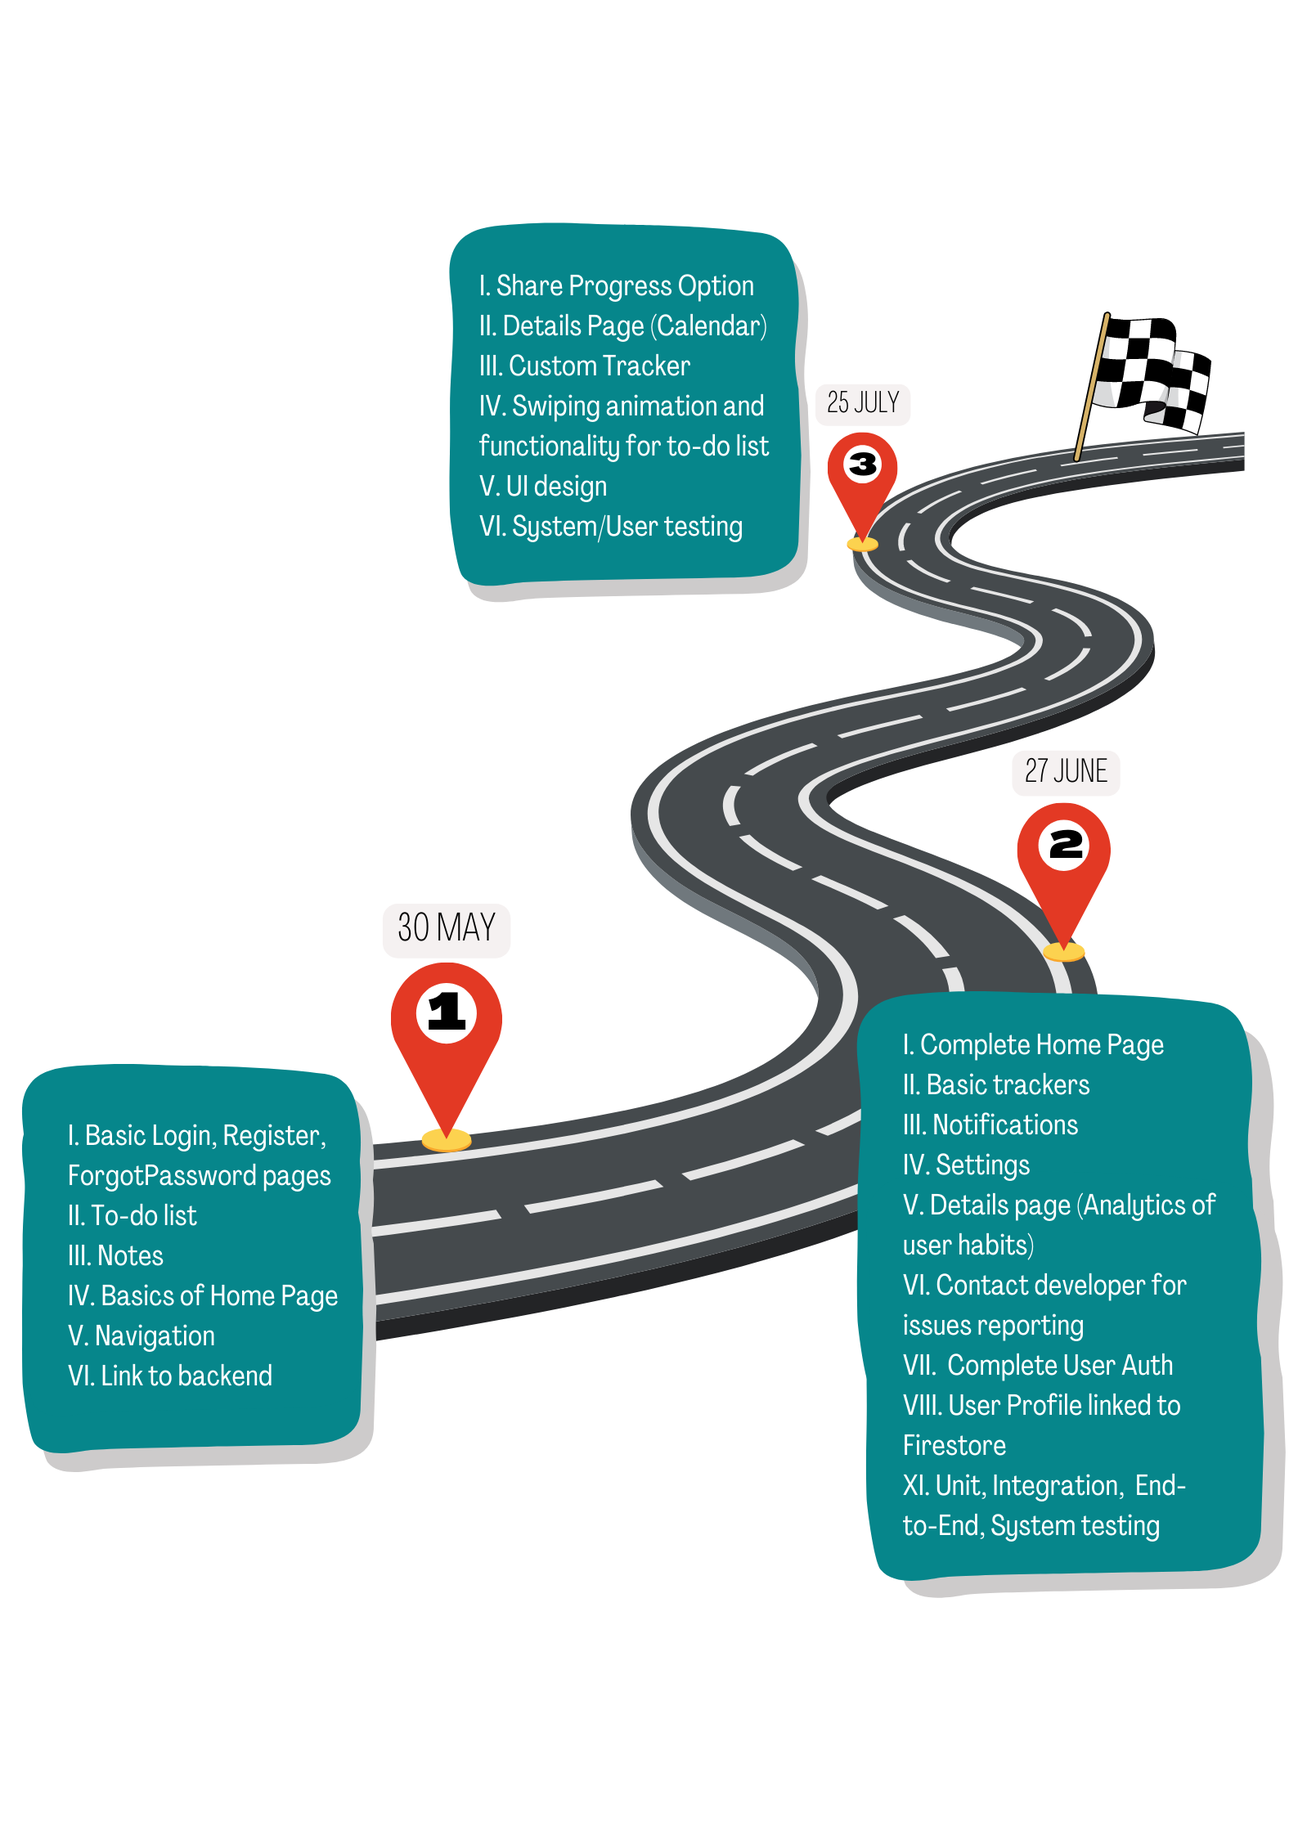
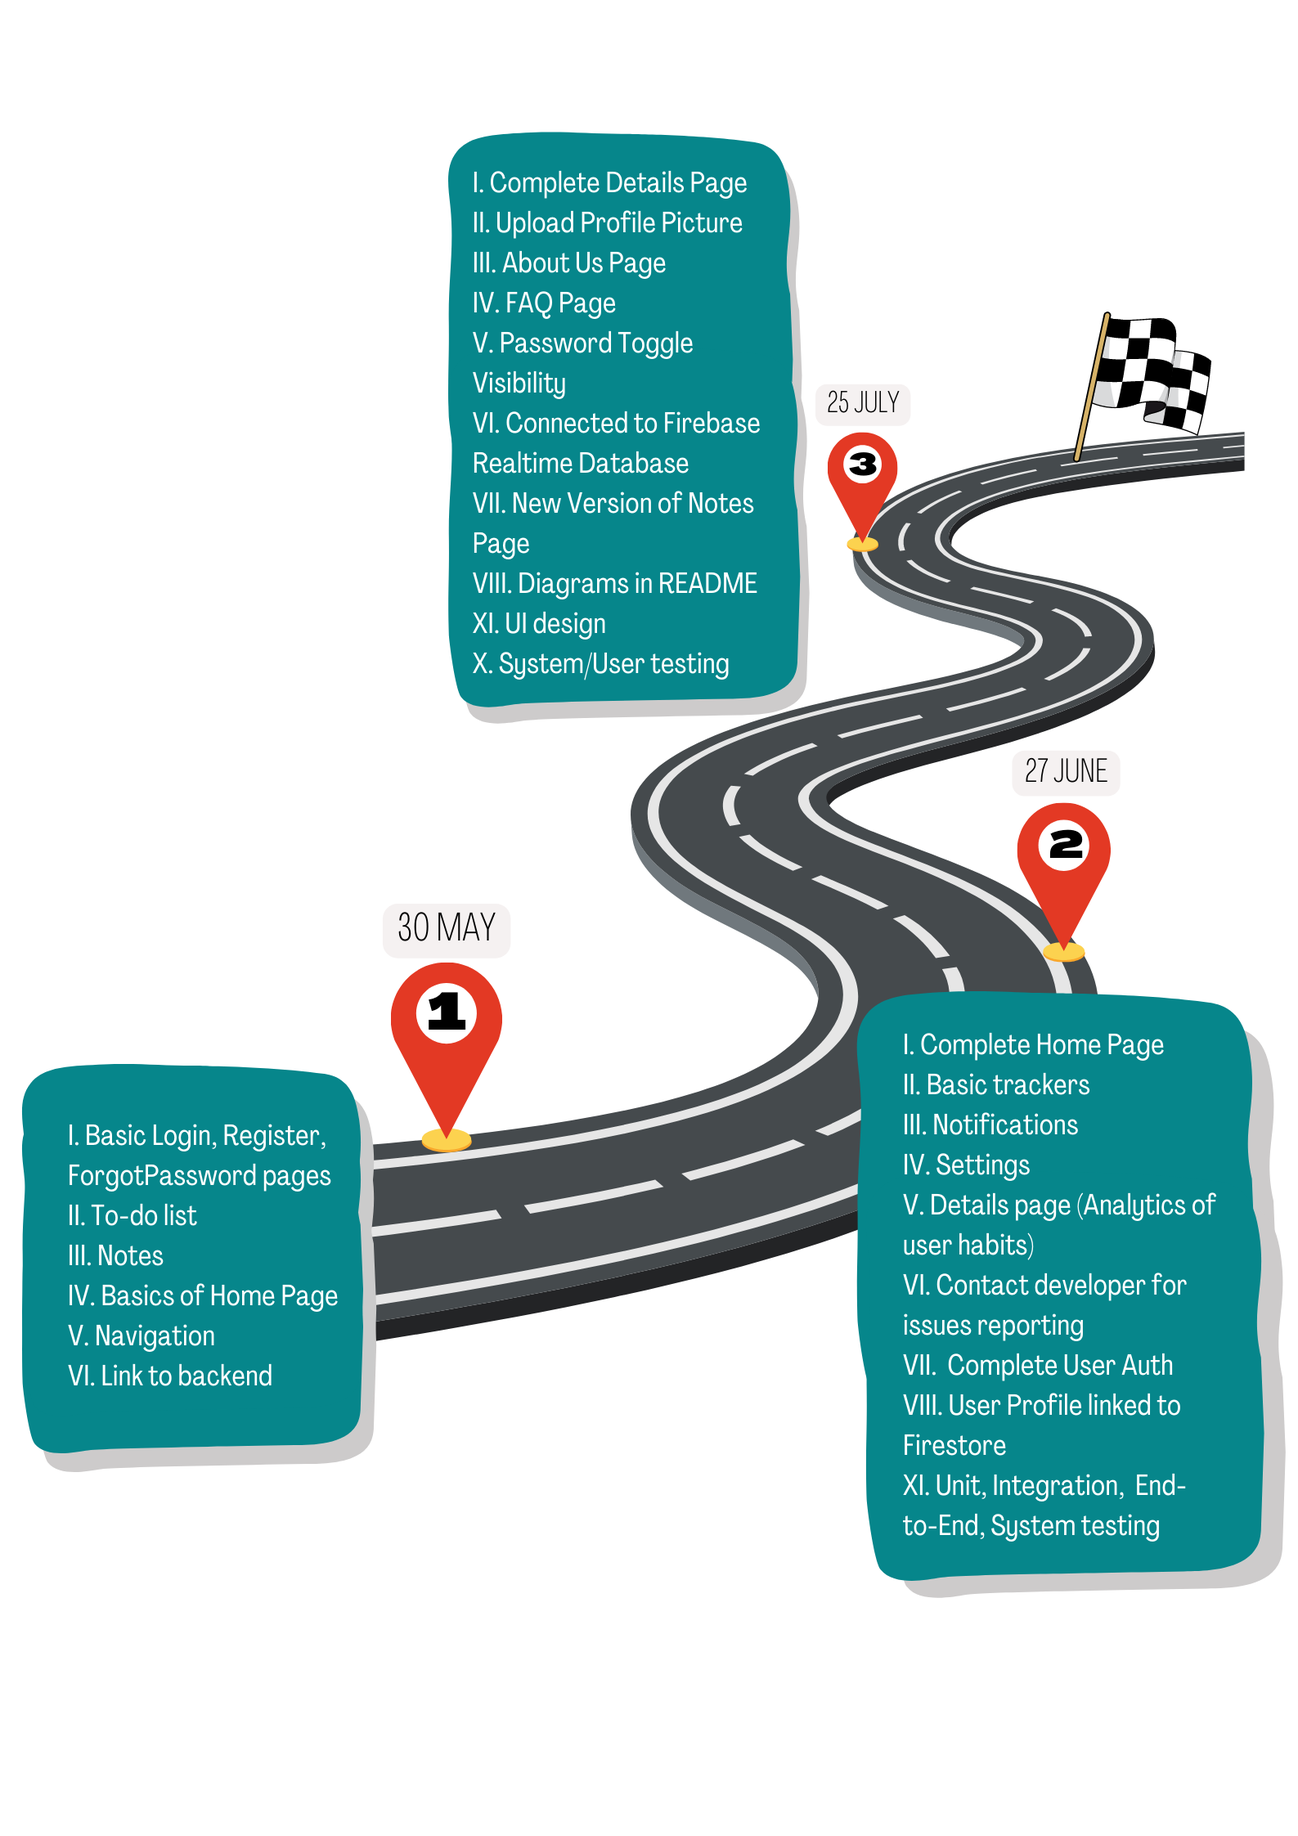
New README

Changed region(s): [[0.3396, 0.0624, 0.6484, 0.4053]]

diff --git a/README.md b/README.md
@@ -6,13 +6,20 @@
 
 **[Track My Day App Video 📺]()**  
 
-Proof of Concept: **[Track My Day APK file]()** - please download it using your mobile device, you can access the file via our google drive (on your phone) and download it. It will show up as a mobile application on your phone screen. Click the app and try out Track My Day. 
+Proof of Concept: **[Track My Day APK file]()** - please download it using your mobile device, you can access the file via our google drive (on your phone) and download it. It will show up as a mobile application on your phone screen. Click the app and try out Track My Day.  
+
+**Sample account** with saved data for habits to display visualisation:  
+email: hearts@gmail.com  
+password: 123456  
+
+_The profile picture is not going to appear on this account (we'll figure out how to fix it later!) but uploading a profile picture works. If you create a new account, you will be able to see a default profile picture and change it as well._
 
 _Note:  
 We recommend viewing our **GitHub README** for the latest update of the app.  
 To view a collection of images, demo videos, project log, poster and full video of the app, visit our **Google Drive**. For best viewing experience (high resolution), watch the videos in full screen._
   
   # Table of Contents  
+  - [What's new in Milestone 3?](#whats-new-in-milestone-3)
   - [Project Introduction](#project-introduction)  
       - [Team Information](#team-information)  
       - [Project Motivation](#project-motivation)  
@@ -31,14 +38,14 @@ To view a collection of images, demo videos, project log, poster and full video 
           - [Tiles (Home Page)](#tiles-home-page)  
           - [Notes & To-Do List](#notes--to-do-list)  
           - [Drawer](#drawer)  
+          - [User Details](#user-details)  
           - [Navigation](#navigation)  
           - [Settings](#settings)  
       - [Extended Features of App](#3-extended-features-of-app)  
           - [View Details Page](#view-details-page)  
           - [About Us Page](#about-us-page)  
           - [FAQ Page](#faq-page)  
-          - [Notifications](#notifications)  
-          - [Share Your Progress](#share-your-progress)  
+          - [Notifications](#notifications)   
   - [Firebase Firestore (Database)](#firebase-firestore-database)  
       - [Structure of Data](#structure-of-data)  
       - [Create Data](#create-data)  
@@ -46,15 +53,15 @@ To view a collection of images, demo videos, project log, poster and full video 
       - [Update Data](#update-data)  
       - [Delete Data](#delete-data)  
   - [Firebase Realtime Database](#firebase-realtime-database)  
+  - [Diagrams](#concept-diagrams)  
+      - [Component Interaction](#component-interaction)  
+      - [User Flow Map](#user-flow-map)
   - [Testing](#testing)  
       - [Unit Testing](#unit-testing)  
       - [Integration Testing](#integration-testing)  
       - [End-to-end (E2E) Testing](#end-to-end-e2e-testing)  
       - [System Testing](#system-testing)  
   - [Demo Video of Full App](#demo-video-of-full-app)  
-  - [Diagrams](#concept-diagrams)  
-      - [Component Interaction](#component-interaction)  
-      - [User Flow Map](#user-flow-map)
   - [Timeline and Progress Chart](#timeline-and-progress-chart)  
   - [Project Log](#project-log)  
   - [Tech Stack](#tech-stack) 
@@ -62,6 +69,8 @@ To view a collection of images, demo videos, project log, poster and full video 
   - [Milestone 3 Poster](#milestone-3-poster)  
     
 <br> 
+
+# What's New in Milestone 3?
 
 # Project Introduction
 ## Team Information  
@@ -124,14 +133,18 @@ Resetting the password also makes use of Firebase authentication and after a new
 **--> Watch a demo video of our authentication page: [Authentication](https://drive.google.com/file/d/1xWIzDYKHUzd6D6qKcYUCSQ4jK0D9KHmg/view?usp=sharing)**
 
 ### Login Page 
-The login page is the first page the user is brought to upon opening the app. This page allows the user to switch to the Register page as well as the Forgot Password page. The user logs in using their email and password, and authentication is implemented as mentioned above. Upon logging in, the user will be brought to the Home page. 
+The login page is the first page the user is brought to upon opening the app. This page allows the user to switch to the Register page as well as the Forgot Password page. The eye icon allows toggling of password visibility.      
+
+The user logs in using their email and password, and authentication is implemented as mentioned above. Upon logging in, the user will be brought to the Home page.  
 
 **Current progress:** Complete.   
 
 ![Login Page](./readme_assets/Login.jpeg)  
 
 ### Register Page
-A new user registers using their email and password at the Register page. The repeat password field ensures that the user enters the correct password both times and an error message will appear if the passwords are different. After registration, the user is guided to the Profile page to register their personal details which will be stored in the Firestore database.  
+A new user registers using their email and password at the Register page. The repeat password field ensures that the user enters the correct password both times and an error message will appear if the passwords are different. This page also has eye icons for password visibility toggling.  
+
+After registration, the user is guided to the Profile page to register their personal details which will be stored in the Firestore database.  
 
 **Current progress:** Complete  
 
@@ -147,16 +160,18 @@ The user enters their email in the Forgot Password page. This page has been link
 ![Forgot Password Page](./readme_assets/ForgotPassword.jpeg)  
 
 ### Profile Page 
-The app will also collect the user’s personal details and goals which will be used in the Analysis page. The user can set their username, birthday and enter a favorite quote here. They can also set goals such as amount of sleep per night, amount of water drunk per day and amount of time spent studying or exercising daily.  
+The app will also collect the user’s personal details and goals which will be used in the Analysis page. The user can set their username, birthday and enter a favorite quote here. They can also set goals such as amount of sleep per night, amount of water drunk per day and amount of time spent studying, exercising or reading daily.  
 
-The user will only encounter this page once immediately after registration. After registration, the user will be guided to the Profile page where they fill in these details. Upon pressing the button to register, a pop up will appear to confirm that the user has registered their details. The user will be added into the Firestore database with these details recorded. Afterwards, if the user wants to make any changes, they can do so in ‘Settings’ where a separate page is created for changing these details. Any updates will also be recorded in Firestore.  
+The user will only encounter this page once immediately after registration. After registration, the user will be guided to the Profile page where they fill in these details. Upon pressing the button to register, a pop up will appear to confirm that the user has registered their details. The user will be added into the Firestore database and Realtime Database with these details recorded. Afterwards, if the user wants to make any changes, they can do so in ‘Settings’ where a separate page is created for changing these details. Any updates will also be recorded in Firestore and Realtime Database.  
 
 **Current progress:** Complete.  
 
 ![Profile Page](./readme_assets/Profile.jpeg)  
 
 ### Delete Account
-Users can delete their account in the app. There will be a delete account button at the settings and when clicked, the users will have to log in again with the correct username and password. After logging in, there will be an alert to remind the user that deleting the account is an irreversible action. If the user chooses to delete the account, the user will be removed from the Firebase Authentication and Firestore.  
+Users can delete their account in the app. There will be a red 'Delete Account' button at the Settings and when clicked, the users will have to log in again with the correct username and password for additional safety.  
+
+After logging in, there will be an alert to remind the user that deleting the account is an irreversible action. If the user chooses to delete the account, the user will be removed from the Firebase Authentication, Firestore and Realtime Database.  
 
 **Current progress:** Complete.
 
@@ -189,14 +204,14 @@ When the user clicks the “Confirm” button, the value of each tracker will be
 ![Tiles](./readme_assets/Home.jpg)  
 
 ### Notes & To-Do List 
-Notes & to-do lists are meant to satisfy the quick note taking needs of the users. Both pages support simple typing, and the to-do list supports an additional checkbox feature.  
+Notes & to-do lists are meant to satisfy the quick note taking needs of the users. Both pages support simple typing.  
 
-As both pages are meant for quick and simple note taking, we do not intend to add more features such as bolded words, add a photo or link function. We wish to maintain the simplicity of the features and minimalistic design of the app.  
+As both pages are meant for simple note taking, we do not intend to add more features such as bolded / italic words, add a photo or link function. We wish to maintain the simplicity of the features and minimalistic design of  the app.  
 
-**Current Progress:** Normal notes & todo list functions done. With basic UI design. Incomplete functions: Search function (unable to filter) and delete button in Notes page, for now, tap anywhere in the yellow box to delete. 
-
-#### Notes
-For notes, the user can add and delete notes. All notes will be visible in one screen and users can scroll to view their notes. Users can swipe to delete the notes.  
+Current progress: Both pages completed with full functions. 
+ 
+#### Notes  
+For notes, the user can add (save), edit and delete notes. When the “+” button at the bottom right corner is clicked, a new page (which is a modal) for adding & editing the notes will be visible. All notes are arranged in one screen and users can scroll to view their notes. Users can also choose to view the notes in “Full View” or “List View” (collapsed notes).  
 
 **--> Watch a demo video of Notes: [Notes 📺](https://drive.google.com/file/d/1qhzXf-iBGun7XZjSQATp-M0N9kCZG8qk/view?usp=sharing)**  
 
@@ -205,7 +220,7 @@ For notes, the user can add and delete notes. All notes will be visible in one s
 <br>
 
 #### To-Do List
-The todo list has a tap to delete task function, and to view different todo lists, users only have to swipe (like Tinder) to view the next or previous todo lists.  
+Users can add a new todo item by typing in the text box and pressing the “+” button. Users can delete individual todo items by tapping on each of them.  
 
 **--> Watch a demo video of To-Do List: [To-Do List 📺](https://drive.google.com/file/d/1qgq1DNexN3jURlnbD-Zb8ezk21bAvj7l/view?usp=sharing)**  
 
@@ -214,9 +229,9 @@ The todo list has a tap to delete task function, and to view different todo list
 ### Drawer 
 Drawer can be viewed when the user swipe right on any of the screens or pages. The drawer consists of three sections - user details, navigation tabs, and footer. 
 
-1. **User details:** It shows the user’s profile image and favourite quote. 
-2. **Navigation tabs:** Home and Settings. 
-3. **Footer:** Report Issues (contact developers via email) and Log Out. 
+1. **User details:** It shows the user’s profile image, username, email and favourite quote. 
+2. **Navigation tabs:** Home, Settings, About Us and FAQ. 
+3. **Footer:** Report Issues (contact developers via email) and Log Out.  
 
 Report Issues button will open the default mailing app on the user’s phone (e.g. Gmail or Outlook) and send an email titled “Issues With Track My Day” to the developer of this app.  
 
@@ -226,11 +241,16 @@ Report Issues button will open the default mailing app on the user’s phone (e.
 
 ![Drawer](./readme_assets/Drawer.jpg)  
 
+### User Details  
+When a new accout is created, the default profile picture will be applied. The user can change their profile picture by clicking on the camera icon beside the profile picture.  
+
+Whenever a user updates their email, username or favourite quote, it will be reflected in the drawer immediately.
+
 ### Navigation
 Track My Day uses React Navigation package to navigate between different screens. The types of navigation we are using are: stack, drawer and material bottom tabs.  
 
-1. **Stack navigation:** All buttons (eg. to View details button) 
-2. **Drawer navigation:**  Home page (Tiles), Settings, Log Out 
+1. **Stack navigation:** All buttons (e.g. to View Details button) 
+2. **Drawer navigation:**  Home page (Tiles), Settings, About Us page, FAQ page, Log Out 
 3. **Material Bottom tabs navigation:** Home page (Tiles), To-do page, Notes page 
 
 **Current Progress:** Completed. Able to navigate between different pages. 
@@ -242,7 +262,7 @@ Like all apps, there must be a Settings button. Things that are included in Sett
 
 The user will be prompted to log in again before they can perform critical actions such as changing email or password, or deleting their account. This is to ensure that the correct user is authorizing these actions. When changing their email, if the new email is already taken, the user will be informed via an error message and the change will not be carried out. Before account deletion, the user will be informed that the action is irreversible and they can choose to go back or proceed with the deletion.  
 
-**Current Progress:** This page has the following sections: Notifications toggle on/off, Update personal details, Change email or password and Delete Account. Completed sections: Update personal details, change email or password and delete account. Will navigate to respective pages when clicked.  
+**Current Progress:** This page has the following sections: Notifications toggle on/off, Update personal details, Change email or password and Delete Account. All sections are complete except Notifications toggle.
 
 **--> Watch a demo video of Settings: [Settings 📺](https://drive.google.com/file/d/1P72npPYSDLMmft3HQdRFFsz4LRE_oPin/view?usp=sharing)**  
 
@@ -251,14 +271,17 @@ The user will be prompted to log in again before they can perform critical actio
 ## 3. Extended Features of App 
 
 ### View Details Page 
-Once the user clicks the “View Details” button at the bottom right of the icon, the user will be directed to a details page. We include the following components in the “View details” page.  
+Once the user clicks the “View Details” button at the bottom right of the icon, the user will be directed to a details page. We include the following components in the “View Details” page.  
 
-1. **Calendar:** Although our app tracks the daily progress of the user’s habits, we want a calendar to track the monthly or even yearly progress of the user’s habits. The calendar is designed for the visualization of the user’s progress and encourages the user’s to keep up with their streaks. 
+1. **Analytics:** Since habits are tracked in terms of days in Tiles, the data size collected for the habits are suitable for analysis. Here, the user can see the percentage of their goal that they have achieved so far.   
 
-2. **Analytics:** Since habits are tracked in terms of days in Tiles, the data size collected for the habits are suitable for analysis. Using a water tracker as an example, the analysis will be on the number of water consumption (liters) in a day. We use a line chart that shows the user’s progress in tracking his/her water consumption habit for visualization of analytics. The data for the line chart is read from the Firebase Firestore. 
-Calendar and Analysis are placed together in the same “View details” page. By highlighting a certain period of days in the calendar, the analytics will show a line graph of values within this period of days, for the respective habits tracked.  
+2. **Circular Progress Chart:** This animated chart shows how far the user has come in achieving their goal. The number in the middle of the ring is the average of their logged data (data for each day/number of days) whereas the entire ring adds up to their goal amount. For example, if the user's sleep goal is 8 hours, the ring will be complete at 8 hours. If the user has slept for 6, 7, 8 hours in the past 3 days, the number in the middle will show (6+7+8/3) = 7. The units will be in hours for sleep.
 
-**Current Progress:** Completed Analytics - able to read data from database and present data as line chart. Basic UI done.  
+3. **Calendar:** Although our app tracks the daily progress of the user’s habits, we want a calendar to track the monthly progress of the user’s habits. Each day, a square will only be filled in when the user achieves their goal for the day. The calendar is designed for the visualization of the user’s progress and encourages the users to keep up with their streaks.   
+
+4. **Chart:** We use a line chart that shows the user’s progress in tracking his/her water consumption habit for visualization of analytics. The data for the line chart is read from the Firebase Firestore.
+
+**Current Progress:** Completed.
 
 ![View Details](./readme_assets/Analytics.jpg) 
 
@@ -279,12 +302,9 @@ Sometimes, users may have questions or suggestions to improve our app. The FAQ p
 ### Notifications 
 We used local push notifications via Expo CLI for the app’s notification. The app will notify the user everyday at 9pm to use Track My Day.  
 
-**Current Progress:** Completed.  
+**Current Progress:** Completed. Toggling on/off is not yet complete.  
 
-![Notifications](./readme_assets/Notification.jpg)  
-
-### Share Your Progress
-We consider that millennials like to share their daily moments on social media, hence we wish to implement a “Share Your Progress” function in our app as a bonus feature. This function will connect the app with social media platforms like Instagram, Facebook and Twitter.  
+![Notifications](./readme_assets/Notification.jpg)   
 
 # Firebase Firestore (database)
 
@@ -348,9 +368,21 @@ We consider that millennials like to share their daily moments on social media, 
 - Deleting an account will delete the user’s data from Firebase authentication as well as Firestore database.  
 
 # Firebase Realtime Database  
-When the user updates their details, such as email, username and favourite quote, the Realtime Database will track these changes. These changes can be read immediately and will be reflected in the drawer.  
+When the user updates their details, such as email, username, favourite quote, and goals, the Realtime Database will track these changes.  
+
+These changes can be read immediately and changes to email, username and favourite quote will be reflected in the drawer. Changes to goals will be used in the View Details page to calculate the user's progress.
 
 ![Firebase Realtime Database](./readme_assets/RealtimeDatabase.png)
+
+
+## Concept Diagrams  
+### Component Interaction  
+This diagram shows the interaction of the files in the app.
+![Component Interaction Diagram](./readme_assets/ComponentInteraction.png)
+
+### User Flow Map  
+The User Flow Map depicts the possible actions a user can take in our app and the results.
+![User Flow Map](./readme_assets/UserFlowMap.png)
 
 # Testing 
 
@@ -419,15 +451,6 @@ To be completed in Milestone 3
 
 ## Demo Video of Full App 
 **[Track My Day 📺]()**
-
-## Concept Diagrams  
-### Component Interaction  
-![Component Interaction Diagram](./readme_assets/ComponentInteraction.png)
-
-### User Flow Map  
-
-
-
 
 ## Timeline and Progress Chart
 
